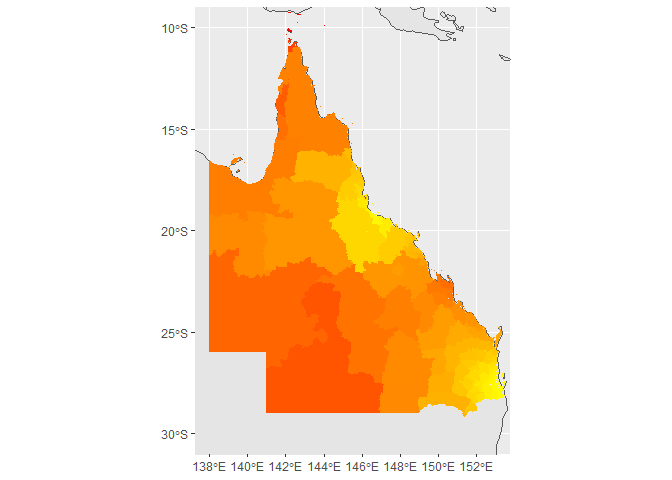
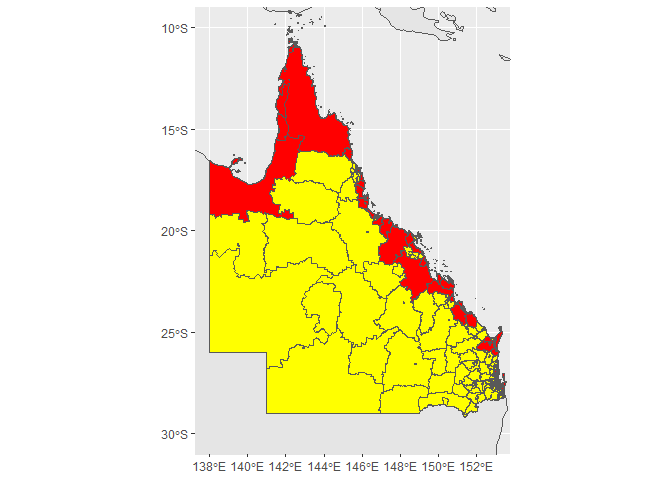
speed up st_union() and plot SA1s and SA2s

Changed region(s): [[0.3125, 0.0625, 0.75, 0.875]]

diff --git a/iTRAQI.md b/iTRAQI.md
@@ -1,6 +1,6 @@
 iTRAQI
 ================
-23 February, 2022
+24 February, 2022
 
 #### resources used:
 
@@ -19,19 +19,10 @@ iTRAQI
 df_times <- read.csv("input/QLD_locations_with_RSQ_times_20220210.csv")
 coordinates(df_times) <- ~ x + y
 
-qld_bounary <- st_read("input/qld_state_polygon_shp/QLD_STATE_POLYGON_shp.shp")
-```
+# qld_bounary <- st_read("input/qld_state_polygon_shp/QLD_STATE_POLYGON_shp.shp")
+qld_bounary <- read_sf("input/qld_state_polygon_shp/QLD_STATE_POLYGON_shp.shp")
 
-    ## Reading layer `QLD_STATE_POLYGON_shp' from data source 
-    ##   `C:\Users\Rex\Documents\R_projects\iTRAQI\input\qld_state_polygon_shp\QLD_STATE_POLYGON_shp.shp' 
-    ##   using driver `ESRI Shapefile'
-    ## Simple feature collection with 2031 features and 6 fields
-    ## Geometry type: POLYGON
-    ## Dimension:     XY
-    ## Bounding box:  xmin: 137.996 ymin: -29.1779 xmax: 153.5552 ymax: -9.141203
-    ## Geodetic CRS:  GDA94
 
-``` r
 qld_SAs <- st_read("input/qld_sa_zones/MB_2016_QLD.shp")
 ```
 
@@ -148,10 +139,10 @@ ggplot(data = world) +
 ``` r
 do_union <- function(x){
   pb$tick()
-  st_union(x)
+  st_union(x, is_coverage = TRUE)
 }
 
-f <- function(qld_sf, SA_number){
+aggregate_by_SA <- function(qld_sf, SA_number){
   sa_main <- glue::glue('SA{SA_number}_{ifelse(SA_number %in% c(3,4), "CODE", "MAIN")}16')
   print(sa_main)
   num_ticks <- length(unique(qld_sf[[sa_main]]))
@@ -166,16 +157,21 @@ f <- function(qld_sf, SA_number){
     summarize(geometry=do_union(geometry))
 }
 
-qld_SA2s <- f(qld_sf=qld_SAs, SA_number=2)
+qld_SA2s <- aggregate_by_SA(qld_sf=qld_SAs, SA_number=2)
 ```
 
     ## SA2_MAIN16
 
 ``` r
+qld_SA1s <- aggregate_by_SA(qld_sf=qld_SAs, SA_number=1)
+```
+
+    ## SA1_MAIN16
+
+``` r
 ggplot(data = world) +
   geom_sf() +
   geom_sf(data=qld_SA2s, aes(fill=1)) +
-  # coord_sf(xlim = c(100.00, 160.00), ylim = c(-45.00, -10.00), expand = T) +
   coord_sf(xlim = c(138, 153.00), ylim = c(-30.00, -10.00), expand = T) +
   guides(fill="none") +
   scale_fill_gradient(low = "yellow", high="red")
@@ -183,18 +179,41 @@ ggplot(data = world) +
 
 ![](iTRAQI_files/figure-gfm/unnamed-chunk-7-1.png)<!-- -->
 
+# find out why there is a mix of polygons and multipolygons…
+
+##### spoiler: multipolygons where there are islands
+
+``` r
+mlt_idx <- c()
+for(i in 1:nrow(qld_SA2s)){
+  geo <- qld_SA2s$geometry[i]
+  cl <- class(geo[[1]])[2]
+  if(cl=="MULTIPOLYGON"){
+    mlt_idx <- append(mlt_idx, i)
+  }
+}
+
+ggplot(data = world) +
+  geom_sf() +
+  geom_sf(data=qld_SA2s[mlt_idx,], aes(fill=1)) +
+  geom_sf(data=qld_SA2s[-mlt_idx,], aes(fill=0)) +
+  coord_sf(xlim = c(138, 153.00), ylim = c(-30.00, -10.00), expand = T) +
+  guides(fill="none") +
+  scale_fill_gradient(low = "yellow", high="red")
+```
+
+![](iTRAQI_files/figure-gfm/unnamed-chunk-8-1.png)<!-- -->
+
 # spatial join from SA2 polygons to interpolated values
 
 ``` r
 coordinates(lzn_kriged) <- ~ X + Y
 lzn_kriged_sf <- st_as_sf(lzn_kriged)
 
-# qld_SAs <- st_transform(qld_SAs, crs = 4326)
-qld_SA2s <- st_transform(qld_SA2s, crs = 4326)
 lzn_kriged_sf <- st_set_crs(lzn_kriged_sf, 4326)
 lzn_kriged_sf <- st_transform(lzn_kriged_sf, crs = 4326)
 
-# test <- st_join(qld_SAs, lzn_kriged_sf)
+qld_SA2s <- st_transform(qld_SA2s, crs = 4326)
 qld_SA2s_with_int_times <- st_join(qld_SA2s, lzn_kriged_sf)
 # https://ryanpeek.org/2019-04-29-spatial-joins-in-r/
 
@@ -205,25 +224,36 @@ qld_SA2s_agged_times <-
   mutate(mean=mean(var1.pred, na.omit=TRUE)) %>% 
   ungroup()
 
-length(unique(qld_SA2s_with_int_times$SA2_MAIN16))
-```
-
-    ## [1] 530
-
-``` r
-length(unique(qld_SA2s_agged_times$SA2_MAIN16))
-```
-
-    ## [1] 301
-
-``` r
 ggplot(data = world) +
   geom_sf() +
   geom_sf(data=qld_SA2s_agged_times, aes(fill=mean), col = NA) +
-  # coord_sf(xlim = c(100.00, 160.00), ylim = c(-45.00, -10.00), expand = T) +
   coord_sf(xlim = c(138, 153.00), ylim = c(-30.00, -10.00), expand = T) +
   guides(fill="none") +
   scale_fill_gradient(low = "yellow", high="red")
 ```
 
-![](iTRAQI_files/figure-gfm/unnamed-chunk-8-1.png)<!-- -->
+![](iTRAQI_files/figure-gfm/unnamed-chunk-9-1.png)<!-- -->
+
+# spatial join from SA1 polygons to interpolated values
+
+``` r
+qld_SA1s <- st_transform(qld_SA1s, crs = 4326)
+qld_SA1s_with_int_times <- st_join(qld_SA1s, lzn_kriged_sf)
+# https://ryanpeek.org/2019-04-29-spatial-joins-in-r/
+
+qld_SA1s_agged_times <- 
+  qld_SA1s_with_int_times %>% 
+  na.omit() %>%
+  group_by(SA1_MAIN16) %>%
+  mutate(mean=mean(var1.pred, na.omit=TRUE)) %>% 
+  ungroup()
+
+ggplot(data = world) +
+  geom_sf() +
+  geom_sf(data=qld_SA1s_agged_times, aes(fill=mean), col = NA) +
+  coord_sf(xlim = c(138, 153.00), ylim = c(-30.00, -10.00), expand = T) +
+  guides(fill="none") +
+  scale_fill_gradient(low = "yellow", high="red")
+```
+
+![](iTRAQI_files/figure-gfm/unnamed-chunk-10-1.png)<!-- -->
